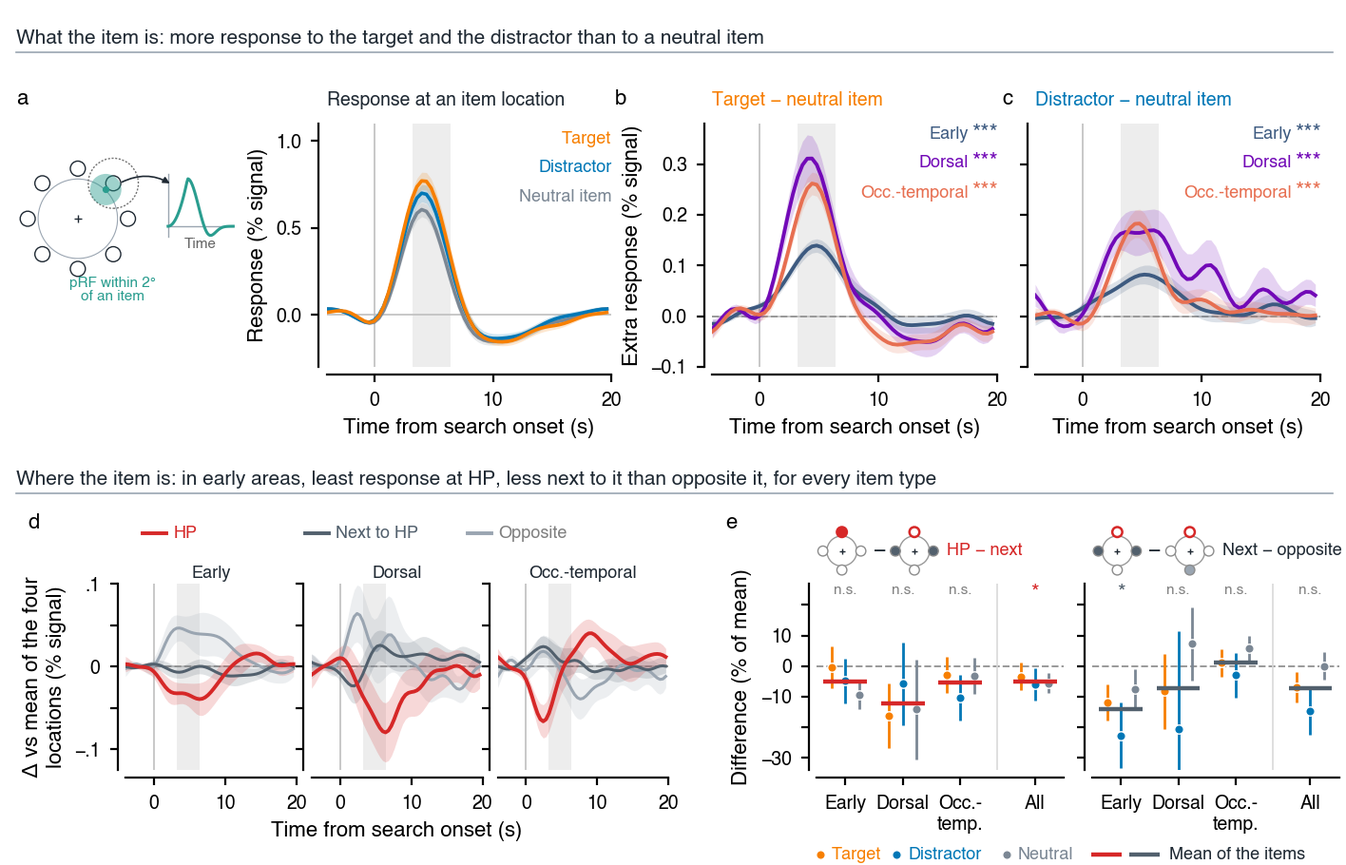
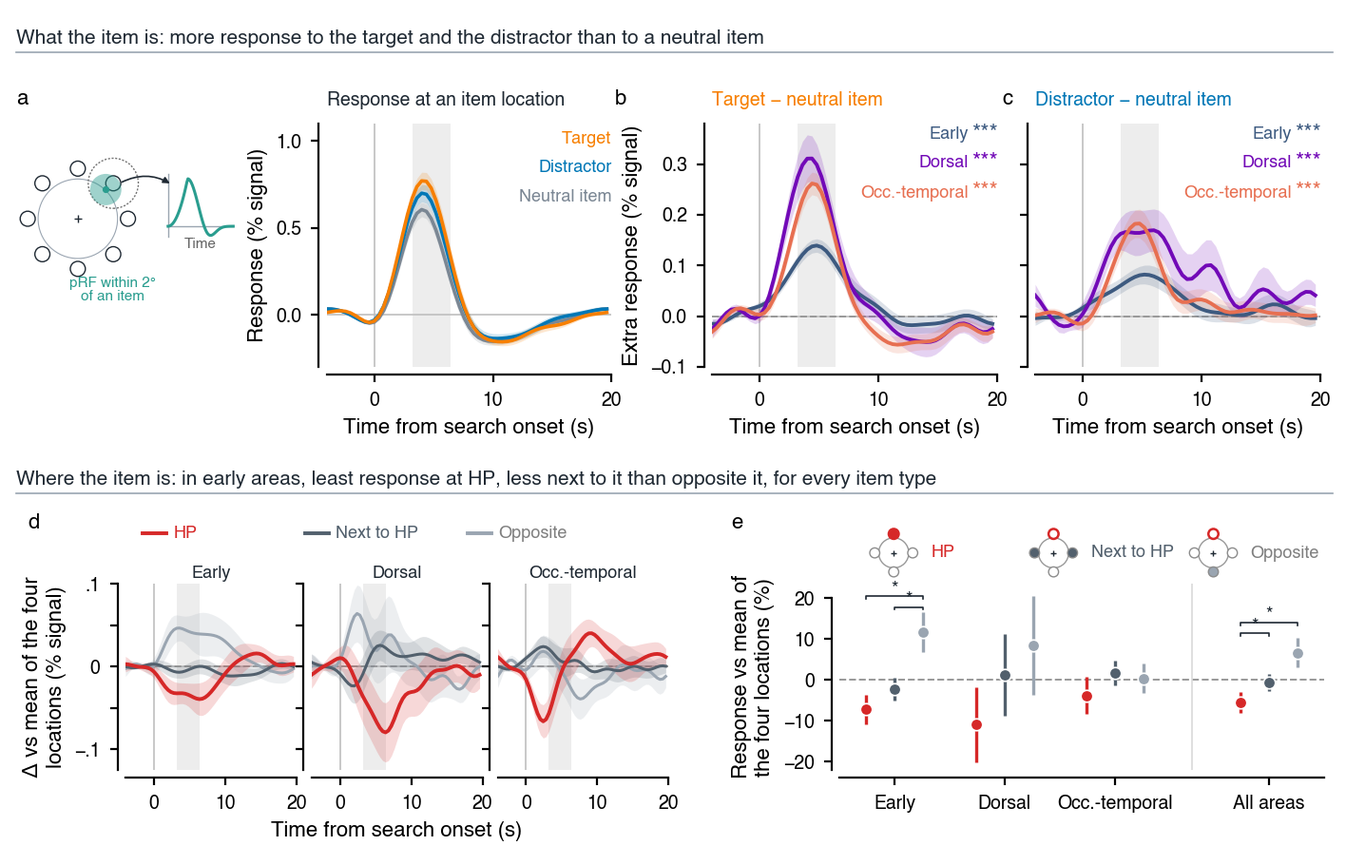
Fig. 3e as one panel in the style of Fig. 6d: HP, next to HP and opposite relative to the mean of the four locations per pathway, item types pooled, within-subject SEM, brackets where p < .05; per-item contrasts moved to the legend

diff --git a/retsupp/visualize/paper/fig3_item_locations.py b/retsupp/visualize/paper/fig3_item_locations.py
@@ -44,7 +44,7 @@ REL_DCT_FOLDER = 'notes/data/event_deconv_relative_dct_2026-11'
 ROW2_TITLE = 'Where the item is: in early areas, least response at HP, less next to it than opposite it, for every item type'
 
 LEGEND = """
-**Figure 3. At the item locations, without a model: more response to the target and the distractor, and, in early areas, least response at the high-probability (HP) location, less next to it than opposite it, for every item.** All panels: deconvolved response (nideconv, Fourier basis) around search onset of voxels whose pRF centre lies within 2° of an item location (inset in a: the display with one such pRF on an item, and the response it gives), ROIs pooled weighted by voxel count, each subject's pre-onset mean (−4 to 0 s) subtracted; mean over subjects ± SEM (n = 30). Pathways: early, V1–V3; dorsal, V3AB and IPS; occipitotemporal, hV4, VO, LO and TO. Grey band: the window tested, {w0:.1f}–{w1:.1f} s. a, Response at a pRF's item location when the target, the distractor or a neutral item is there, all at low-probability (LP) locations, all nine ROIs pooled. b, Target minus neutral item per pathway (both averaged over HP and LP locations). c, Distractor minus neutral item per pathway (both at LP locations). Stars in b, c: the mean over the window against 0, Wilcoxon signed-rank test, Benjamini-Hochberg over the three pathways per panel; {diff_tests}. d, e, Where the item lies relative to the run's HP location (HP rotates between runs, so each location is labelled per run): HP (red), next to HP (the two neighbouring LP locations, left and right seen from fixation facing HP, pooled; dark grey) or opposite HP (light grey), colours and order as Fig. 6d, g; deconvolved with the item type × location type as twelve event types. d, Each location type minus the mean of the four locations, item types pooled, per pathway. e, Per item type, HP − next to HP (left) and next to HP − opposite (right) over the window, in % of each subject's mean response over the four locations and three item types in that pathway; points and bars, mean ± SEM over subjects (dorsal pathway in b–e: n = {n_dor}, two subjects lack dorsal voxels at some item location). Rules: the mean over item types; stars, the planned contrast on it, Wilcoxon signed-rank test, uncorrected (* p < .05, ** p < .01, *** p < .001). Per pathway, repeated-measures ANOVA location type (HP, next, opposite) × item type (target, distractor, neutral), with the planned contrasts (mean ± SEM over subjects): {rel}. HP against all three LP locations (the earlier HP vs LP deconvolution, two event types per item; ANOVA location (HP, LP) × item type): main effect of location {hplp}; location × item {inter}. DCT basis (robustness), b, c and HP vs LP: {dct} Location types, DCT basis: {rel_dct}.
+**Figure 3. At the item locations, without a model: more response to the target and the distractor, and, in early areas, least response at the high-probability (HP) location, less next to it than opposite it, for every item.** All panels: deconvolved response (nideconv, Fourier basis) around search onset of voxels whose pRF centre lies within 2° of an item location (inset in a: the display with one such pRF on an item, and the response it gives), ROIs pooled weighted by voxel count, each subject's pre-onset mean (−4 to 0 s) subtracted; mean over subjects ± SEM (n = 30). Pathways: early, V1–V3; dorsal, V3AB and IPS; occipitotemporal, hV4, VO, LO and TO. Grey band: the window tested, {w0:.1f}–{w1:.1f} s. a, Response at a pRF's item location when the target, the distractor or a neutral item is there, all at low-probability (LP) locations, all nine ROIs pooled. b, Target minus neutral item per pathway (both averaged over HP and LP locations). c, Distractor minus neutral item per pathway (both at LP locations). Stars in b, c: the mean over the window against 0, Wilcoxon signed-rank test, Benjamini-Hochberg over the three pathways per panel; {diff_tests}. d, e, Where the item lies relative to the run's HP location (HP rotates between runs, so each location is labelled per run): HP (red), next to HP (the two neighbouring LP locations, left and right seen from fixation facing HP, pooled; dark grey) or opposite HP (light grey), colours and order as Fig. 6d, g; deconvolved with the item type × location type as twelve event types. d, Each location type minus the mean of the four locations, item types pooled, per pathway. e, Each location type relative to the mean of the four locations over the window, item types pooled, in % of each subject's mean response over the four locations and three item types in that pathway; mean ± within-subject SEM (dorsal pathway in b–e: n = {n_dor}, two subjects lack dorsal voxels at some item location). Brackets: planned contrasts (HP vs next to HP, next to HP vs opposite, HP vs opposite) on the mean over item types, Wilcoxon signed-rank test, uncorrected, drawn where p < .05 (* p < .05). The item types do not differ in their location effect (location type × item type below), so they are pooled. Per item type (target, distractor, neutral), HP − next and next − opposite: {items}. Per pathway, repeated-measures ANOVA location type (HP, next, opposite) × item type (target, distractor, neutral), with the planned contrasts (mean ± SEM over subjects): {rel}. HP against all three LP locations (the earlier HP vs LP deconvolution, two event types per item; ANOVA location (HP, LP) × item type): main effect of location {hplp}; location × item {inter}. DCT basis (robustness), b, c and HP vs LP: {dct} Location types, DCT basis: {rel_dct}.
 """
 
 
@@ -153,6 +153,20 @@ def rel_report(folder, res):
     cols = ['n', 'loc_F', 'loc_p', 'int_F', 'int_p', 'lp_F', 'lp_p', 'hp_next', 'hp_next_p', 'next_opp', 'next_opp_p',
             'hp_opp', 'hp_opp_p', 'left_right', 'left_right_p']
     print(res[cols].round(3).to_string())
+
+
+def item_text(cells):
+    """Per group and item type: HP − next and next − opposite (% of the mean), Wilcoxon p, for the legend."""
+    out = []
+    for g in list(PATHWAY) + ['All areas']:
+        w = cells[cells.grp == g].pivot_table(index=['subject', 'item'], columns='loc3', values='r').unstack('item')
+        parts = []
+        for it, lab, _ in ITEMS:
+            a, b = w['hp'][it] - w['next'][it], w['next'][it] - w['opposite'][it]
+            parts.append(f"{lab.lower().replace(' item', '')} {a.mean():+.1f}%, {fmt_p(stats.wilcoxon(a).pvalue)} and "
+                         f"{b.mean():+.1f}%, {fmt_p(stats.wilcoxon(b).pvalue)}")
+        out.append(f"{g.lower()}: " + ', '.join(parts))
+    return '; '.join(out)
 
 
 def rel_text(res, groups=None):
@@ -309,53 +323,62 @@ def panel_loc_tc(ax, t, name, ylim=(-.125, .1)):
     ax.set_title(SHORT[name], fontsize=6.5, color=FG, pad=2)
 
 
-def panel_contrast(ax, cells, res, which, ylim=(-34, 27), ylabel=True):
-    """HP − next (``which='hp_next'``) or next − opposite per item type and group, % of the mean response; the rule is
-    the mean over item types, stars the planned contrast on it."""
-    a, b = which.split('_')
-    names = {'hp': 'hp', 'next': 'next', 'opp': 'opposite'}
-    rule = LOC_COLORS[names[a]]
+def panel_loc_types(ax, cells, res):
+    """e: per pathway, each location type relative to the mean of the four locations (% of the mean response), item
+    types pooled; mean ± within-subject SEM; brackets where a planned contrast has p < .05 (Fourier)."""
+    import matplotlib.transforms as mtrans
     order = list(PATHWAY) + ['All areas']
-    off = {'target': -.24, 'distractor': 0., 'neutral': .24}
-    lo, hi = ylim
+    off = {'hp': -.26, 'next': 0., 'opposite': .26}
+    pairs = [('hp_next', 'hp', 'next'), ('next_opp', 'next', 'opposite'), ('hp_opp', 'hp', 'opposite')]
+    tops, lows = [], []
     for i, g in enumerate(order):
-        x0 = i + (.3 if g == 'All areas' else 0)
-        w = cells[cells.grp == g].pivot_table(index=['subject', 'item'], columns='loc3', values='r')
-        v = (w[names[a]] - w[names[b]]).unstack('item')
-        for it, _, col in ITEMS:
-            ax.errorbar(x0 + off[it], v[it].mean(), yerr=v[it].sem(), fmt='o', ms=3.4, color=col, mec='w', mew=.5, lw=1,
-                        capsize=0, zorder=3)
-        m = v.mean(1).mean()
-        ax.plot([x0 - .38, x0 + .38], [m, m], color=rule, lw=1.6, solid_capstyle='butt', zorder=4)
-        pv = res.loc[g, f'{which}_p']
-        ax.text(x0, hi, stars(pv) or 'n.s.', ha='center', va='top', fontsize=8 if stars(pv) else 5.5,
-                color=rule if pv < .05 else '.5')
+        x0 = i + (.4 if g == 'All areas' else 0)
+        x = cells[cells.grp == g].pivot_table(index='subject', columns='loc', values='r')   # mean over item types
+        m4 = x[['hp', 'nextleft', 'nextright', 'opposite']].mean(1)
+        v = pd.DataFrame({'hp': x.hp - m4, 'next': (x.nextleft + x.nextright) / 2 - m4, 'opposite': x.opposite - m4})
+        k = v.shape[1]
+        norm = v.sub(v.mean(1), axis=0)
+        se = norm.std(ddof=1) / np.sqrt(len(v)) * np.sqrt(k / (k - 1))
+        for c, _ in LOC_TYPES:
+            ax.errorbar(x0 + off[c], v[c].mean(), yerr=se[c], fmt='o', ms=4.5, color=LOC_COLORS[c], mec='w', mew=.6,
+                        lw=1.2, capsize=0, zorder=3)
+        top = (v.mean() + se).max()
+        lows.append((v.mean() - se).min())
+        level = 0
+        for key, a_, b_ in pairs:
+            if res.loc[g, f'{key}_p'] < .05:
+                y = top + 1.2 + level * 2.6
+                xa, xb = x0 + off[a_], x0 + off[b_]
+                ax.plot([xa, xa, xb, xb], [y - .6, y, y, y - .6], color=FG, lw=.6)
+                ax.text((xa + xb) / 2, y - .35, stars(res.loc[g, f'{key}_p']), ha='center', va='bottom', fontsize=7,
+                        color=FG)
+                level += 1
+        tops.append(top + 1.2 + level * 2.6)
     ax.axhline(0, color='.6', lw=.7, ls='--', zorder=0)
-    ax.axvline(len(order) - 1.5 + .15, color='.85', lw=.6, zorder=0)
-    ax.set_xticks([i + (.3 if g == 'All areas' else 0) for i, g in enumerate(order)])
-    ax.set_xticklabels(['Early', 'Dorsal', 'Occ.-\ntemp.', 'All'], fontsize=6)
-    ax.set_xlim(-.5, len(order) - .2)
+    ax.axvline(len(order) - 1.5 + .2, color='.85', lw=.6, zorder=0)
+    ax.set_xticks([i + (.4 if g == 'All areas' else 0) for i, g in enumerate(order)])
+    ax.set_xticklabels([SHORT[g] for g in order], fontsize=6.5)
+    ax.set_xlim(-.5, len(order) - .1)
+    lo, hi = np.floor(min(lows)) - 1, max(tops) + .5
     ax.set_ylim(lo, hi)
-    ax.set_yticks([-30, -20, -10, 0, 10, 20])
-    ax.set_yticklabels(['−30', '', '−10', '0', '10', ''])
-    if ylabel:
-        ax.set_ylabel('Difference (% of mean)')
-    else:
-        ax.set_yticklabels([])
+    ticks = [t for t in range(-30, 31, 10) if lo <= t <= hi]
+    ax.set_yticks(ticks)
+    ax.set_yticklabels([f'{t}'.replace('-', '−') for t in ticks])
+    ax.spines['left'].set_bounds(lo, max(ticks))
+    ax.set_ylabel('Response vs mean of\nthe four locations (%)')
     offset_spines(ax)
-    # Title: icon − icon.
+    # Key above the panel: the display icons for the three location types (HP ringed red at the top, the type filled).
     fig = ax.figure
     fig.canvas.draw()
     bb = ax.get_window_extent()
     h = .27
     w_ = h * bb.height / bb.width
-    y0 = 1.04
-    loc_icon(ax, (.0, y0, w_, h), {names[a]})
-    ax.text(w_ + .025, y0 + h / 2, '−', transform=ax.transAxes, fontsize=8, color=FG, va='center', ha='left')
-    loc_icon(ax, (w_ + .09, y0, w_, h), {names[b]})
-    lab = {'hp_next': 'HP − next', 'next_opp': 'Next − opposite'}[which]
-    ax.text(2 * w_ + .12, y0 + h / 2, lab, transform=ax.transAxes, fontsize=6.5, color=rule if a == 'hp' else FG,
-            va='center', ha='left')
+    for j, (c, lab) in enumerate(LOC_TYPES):
+        x = .06 + j * .33
+        loc_icon(ax, (x, 1.03, w_, h), {c})
+        ax.text(x + w_ + .025, 1.03 + h / 2, lab, transform=ax.transAxes, fontsize=6.5,
+                color=LOC_COLORS[c] if c != 'opposite' else '.5', va='center', ha='left')
+    return max(tops)
 
 
 def header(fig, y, text, x0=.012, x1=.99):
@@ -412,23 +435,9 @@ def main(folder, name='fig3_item_locations', stats_only=False, dct_folder='notes
             ax.set_yticklabels([])
         if k == 1:
             ax.set_xlabel('Time from search onset (s)')
-    for k, which in enumerate(('hp_next', 'next_opp')):
-        ax = at(4.3 + k * 1.45, .5, 1.3, .98)
-        panel_contrast(ax, cells, rres, which, ylabel=k == 0)
-        if k == 0:
-            letter(ax, 'e', x=-.32, y=1.27)
-    # Key for e, as glyphs, under its x-axis labels.
-    y = .055 / H
-    x = 4.32
-    for it, lab, col in ITEMS:
-        lab = lab.replace(' item', '')
-        fig.add_artist(plt.Line2D([x / W], [y], marker='o', ms=3.4, color=col, mec='w', mew=.5, transform=fig.transFigure))
-        fig.text((x + .06) / W, y, lab, fontsize=6.5, color=col, va='center', ha='left')
-        x += .13 + .045 * len(lab)
-    for j, c in enumerate(('hp', 'next')):
-        fig.add_artist(plt.Line2D([(x + j * .2) / W, (x + j * .2 + .16) / W], [y, y], color=LOC_COLORS[c], lw=1.6,
-                                  solid_capstyle='butt', transform=fig.transFigure))
-    fig.text((x + .41) / W, y, 'Mean of the items', fontsize=6.5, color=FG, va='center', ha='left')
+    ax = at(4.42, .5, 2.55, .98)
+    print('e: highest bracket', panel_loc_types(ax, cells, rres))
+    letter(ax, 'e', x=-.2, y=1.27)
 
     fmt_d = lambda d, lab: f"{lab}: " + ', '.join(f"{g.lower()} {d[g]['mean']:+.2f}% signal, {fmt_p(d[g]['p'])}"
                                                    for g in PATHWAY)
@@ -436,7 +445,7 @@ def main(folder, name='fig3_item_locations', stats_only=False, dct_folder='notes
                    for g, r in res.iterrows())
     inter = '; '.join(f"{g.lower()} F(2, {2 * (int(r.n) - 1)}) = {r.int_F:.2f}, {fmt_p(r.int_p)}" for g, r in res.iterrows())
     legend = LEGEND.format(w0=PEAK[0], w1=PEAK[1], diff_tests=fmt_d(dt, 'b') + '; ' + fmt_d(dd, 'c'),
-                           n_dor=int(rres.loc['Dorsal', 'n']), rel=rel_text(rres), rel_dct=rel_text(rres2),
+                           n_dor=int(rres.loc['Dorsal', 'n']), rel=rel_text(rres), rel_dct=rel_text(rres2), items=item_text(cells),
                            hplp=an, inter=inter, dct=short_stats(dt2, dd2, hl2, res2))
     legend = legend.replace('-0.', '−0.').replace('(-', '(−').replace(' -', ' −')
     save(fig, name, legend)

diff --git a/notes/figures/paper_2026-11/fig3_item_locations.md b/notes/figures/paper_2026-11/fig3_item_locations.md
@@ -1,1 +1,1 @@
-**Figure 3. At the item locations, without a model: more response to the target and the distractor, and, in early areas, least response at the high-probability (HP) location, less next to it than opposite it, for every item.** All panels: deconvolved response (nideconv, Fourier basis) around search onset of voxels whose pRF centre lies within 2° of an item location (inset in a: the display with one such pRF on an item, and the response it gives), ROIs pooled weighted by voxel count, each subject's pre-onset mean (−4 to 0 s) subtracted; mean over subjects ± SEM (n = 30). Pathways: early, V1–V3; dorsal, V3AB and IPS; occipitotemporal, hV4, VO, LO and TO. Grey band: the window tested, 3.2–6.4 s. a, Response at a pRF's item location when the target, the distractor or a neutral item is there, all at low-probability (LP) locations, all nine ROIs pooled. b, Target minus neutral item per pathway (both averaged over HP and LP locations). c, Distractor minus neutral item per pathway (both at LP locations). Stars in b, c: the mean over the window against 0, Wilcoxon signed-rank test, Benjamini-Hochberg over the three pathways per panel; b: early +0.12% signal, p < .001, dorsal +0.26% signal, p < .001, occipitotemporal +0.22% signal, p < .001; c: early +0.07% signal, p < .001, dorsal +0.17% signal, p < .001, occipitotemporal +0.16% signal, p < .001. d, e, Where the item lies relative to the run's HP location (HP rotates between runs, so each location is labelled per run): HP (red), next to HP (the two neighbouring LP locations, left and right seen from fixation facing HP, pooled; dark grey) or opposite HP (light grey), colours and order as Fig. 6d, g; deconvolved with the item type × location type as twelve event types. d, Each location type minus the mean of the four locations, item types pooled, per pathway. e, Per item type, HP − next to HP (left) and next to HP − opposite (right) over the window, in % of each subject's mean response over the four locations and three item types in that pathway; points and bars, mean ± SEM over subjects (dorsal pathway in b–e: n = 28, two subjects lack dorsal voxels at some item location). Rules: the mean over item types; stars, the planned contrast on it, Wilcoxon signed-rank test, uncorrected (* p < .05, ** p < .01, *** p < .001). Per pathway, repeated-measures ANOVA location type (HP, next, opposite) × item type (target, distractor, neutral), with the planned contrasts (mean ± SEM over subjects): early: location type F(2, 58) = 6.61, p = .003, location type × item F(4, 116) = 1.01, p = .406; HP − next −5.0 ± 3.4%, p = .158; next − opposite −14.0 ± 5.9%, p = .029; HP − opposite −19.0%, p = .011; next left − next right +0.4%, p = .777; dorsal: location type F(2, 54) = 0.87, p = .424, location type × item F(4, 108) = 0.80, p = .526; HP − next −12.1 ± 12.1%, p = .138; next − opposite −7.3 ± 16.5%, p = .955; HP − opposite −19.4%, p = .095; next left − next right +9.6%, p = .305; occipitotemporal: location type F(2, 58) = 0.58, p = .565, location type × item F(4, 116) = 1.64, p = .170; HP − next −5.5 ± 5.6%, p = .393; next − opposite +1.3 ± 4.1%, p = .935; HP − opposite −4.2%, p = .685; next left − next right −3.5%, p = .746; all areas: location type F(2, 58) = 4.80, p = .012, location type × item F(4, 116) = 1.83, p = .128; HP − next −5.0 ± 2.5%, p = .045; next − opposite −7.2 ± 4.3%, p = .119; HP − opposite −12.2%, p = .029; next left − next right +0.6%, p = .598. HP against all three LP locations (the earlier HP vs LP deconvolution, two event types per item; ANOVA location (HP, LP) × item type): main effect of location early −8.1%, F(1, 29) = 4.52, p = .042; dorsal −6.3%, F(1, 27) = 0.41, p = .527; occipitotemporal −3.1%, F(1, 29) = 0.41, p = .526; all areas −6.3%, F(1, 29) = 5.08, p = .032; location × item early F(2, 58) = 0.57, p = .571; dorsal F(2, 54) = 1.12, p = .335; occipitotemporal F(2, 58) = 1.55, p = .220; all areas F(2, 58) = 0.39, p = .679. DCT basis (robustness), b, c and HP vs LP: target − neutral early p < .001, dorsal p < .001, occipitotemporal p < .001; distractor − neutral early p < .001, dorsal p < .001, occipitotemporal p < .001; HP − LP early −9%, p = .067, dorsal −9%, p = .025, occipitotemporal −5%, p = .105; main effect of location early p = .256, dorsal p = .465, occipitotemporal p = .211, all areas p = .158; location × item early p = .896, dorsal p = .825, occipitotemporal p = .523, all areas p = .597. Location types, DCT basis: early: location type F(2, 58) = 4.17, p = .020, location type × item F(4, 116) = 0.20, p = .940; HP − next −4.3 ± 4.1%, p = .221; next − opposite −13.4 ± 6.2%, p = .015; HP − opposite −17.6%, p = .033; next left − next right +2.5%, p = .952; dorsal: location type F(2, 54) = 1.09, p = .344, location type × item F(4, 108) = 0.50, p = .739; HP − next −17.7 ± 14.3%, p = .010; next − opposite +3.2 ± 13.2%, p = .762; HP − opposite −14.6%, p = .115; next left − next right +1.8%, p = .867; occipitotemporal: location type F(2, 58) = 1.43, p = .247, location type × item F(4, 116) = 0.84, p = .505; HP − next −10.0 ± 6.2%, p = .080; next − opposite +4.2 ± 5.6%, p = .919; HP − opposite −5.9%, p = .360; next left − next right −3.8%, p = .777; all areas: location type F(2, 58) = 2.83, p = .067, location type × item F(4, 116) = 0.57, p = .687; HP − next −5.2 ± 3.0%, p = .055; next − opposite −6.2 ± 4.8%, p = .070; HP − opposite −11.4%, p = .088; next left − next right +2.7%, p = .570.
+**Figure 3. At the item locations, without a model: more response to the target and the distractor, and, in early areas, least response at the high-probability (HP) location, less next to it than opposite it, for every item.** All panels: deconvolved response (nideconv, Fourier basis) around search onset of voxels whose pRF centre lies within 2° of an item location (inset in a: the display with one such pRF on an item, and the response it gives), ROIs pooled weighted by voxel count, each subject's pre-onset mean (−4 to 0 s) subtracted; mean over subjects ± SEM (n = 30). Pathways: early, V1–V3; dorsal, V3AB and IPS; occipitotemporal, hV4, VO, LO and TO. Grey band: the window tested, 3.2–6.4 s. a, Response at a pRF's item location when the target, the distractor or a neutral item is there, all at low-probability (LP) locations, all nine ROIs pooled. b, Target minus neutral item per pathway (both averaged over HP and LP locations). c, Distractor minus neutral item per pathway (both at LP locations). Stars in b, c: the mean over the window against 0, Wilcoxon signed-rank test, Benjamini-Hochberg over the three pathways per panel; b: early +0.12% signal, p < .001, dorsal +0.26% signal, p < .001, occipitotemporal +0.22% signal, p < .001; c: early +0.07% signal, p < .001, dorsal +0.17% signal, p < .001, occipitotemporal +0.16% signal, p < .001. d, e, Where the item lies relative to the run's HP location (HP rotates between runs, so each location is labelled per run): HP (red), next to HP (the two neighbouring LP locations, left and right seen from fixation facing HP, pooled; dark grey) or opposite HP (light grey), colours and order as Fig. 6d, g; deconvolved with the item type × location type as twelve event types. d, Each location type minus the mean of the four locations, item types pooled, per pathway. e, Each location type relative to the mean of the four locations over the window, item types pooled, in % of each subject's mean response over the four locations and three item types in that pathway; mean ± within-subject SEM (dorsal pathway in b–e: n = 28, two subjects lack dorsal voxels at some item location). Brackets: planned contrasts (HP vs next to HP, next to HP vs opposite, HP vs opposite) on the mean over item types, Wilcoxon signed-rank test, uncorrected, drawn where p < .05 (* p < .05). The item types do not differ in their location effect (location type × item type below), so they are pooled. Per item type (target, distractor, neutral), HP − next and next − opposite: early: target −0.5%, p = .824 and −11.8%, p = .109, distractor −4.9%, p = .371 and −22.7%, p = .109, neutral −9.6%, p = .055 and −7.7%, p = .428; dorsal: target −16.3%, p = .023 and −8.3%, p = .745, distractor −5.8%, p = .210 and −20.7%, p = .745, neutral −14.2%, p = .728 and +7.3%, p = .867; occipitotemporal: target −3.0%, p = .746 and +1.0%, p = .626, distractor −10.4%, p = .339 and −3.0%, p = .477, neutral −3.2%, p = .503 and +5.8%, p = .309; all areas: target −3.4%, p = .465 and −6.9%, p = .171, distractor −6.1%, p = .152 and −14.8%, p = .100, neutral −5.5%, p = .096 and −0.0%, p = .919. Per pathway, repeated-measures ANOVA location type (HP, next, opposite) × item type (target, distractor, neutral), with the planned contrasts (mean ± SEM over subjects): early: location type F(2, 58) = 6.61, p = .003, location type × item F(4, 116) = 1.01, p = .406; HP − next −5.0 ± 3.4%, p = .158; next − opposite −14.0 ± 5.9%, p = .029; HP − opposite −19.0%, p = .011; next left − next right +0.4%, p = .777; dorsal: location type F(2, 54) = 0.87, p = .424, location type × item F(4, 108) = 0.80, p = .526; HP − next −12.1 ± 12.1%, p = .138; next − opposite −7.3 ± 16.5%, p = .955; HP − opposite −19.4%, p = .095; next left − next right +9.6%, p = .305; occipitotemporal: location type F(2, 58) = 0.58, p = .565, location type × item F(4, 116) = 1.64, p = .170; HP − next −5.5 ± 5.6%, p = .393; next − opposite +1.3 ± 4.1%, p = .935; HP − opposite −4.2%, p = .685; next left − next right −3.5%, p = .746; all areas: location type F(2, 58) = 4.80, p = .012, location type × item F(4, 116) = 1.83, p = .128; HP − next −5.0 ± 2.5%, p = .045; next − opposite −7.2 ± 4.3%, p = .119; HP − opposite −12.2%, p = .029; next left − next right +0.6%, p = .598. HP against all three LP locations (the earlier HP vs LP deconvolution, two event types per item; ANOVA location (HP, LP) × item type): main effect of location early −8.1%, F(1, 29) = 4.52, p = .042; dorsal −6.3%, F(1, 27) = 0.41, p = .527; occipitotemporal −3.1%, F(1, 29) = 0.41, p = .526; all areas −6.3%, F(1, 29) = 5.08, p = .032; location × item early F(2, 58) = 0.57, p = .571; dorsal F(2, 54) = 1.12, p = .335; occipitotemporal F(2, 58) = 1.55, p = .220; all areas F(2, 58) = 0.39, p = .679. DCT basis (robustness), b, c and HP vs LP: target − neutral early p < .001, dorsal p < .001, occipitotemporal p < .001; distractor − neutral early p < .001, dorsal p < .001, occipitotemporal p < .001; HP − LP early −9%, p = .067, dorsal −9%, p = .025, occipitotemporal −5%, p = .105; main effect of location early p = .256, dorsal p = .465, occipitotemporal p = .211, all areas p = .158; location × item early p = .896, dorsal p = .825, occipitotemporal p = .523, all areas p = .597. Location types, DCT basis: early: location type F(2, 58) = 4.17, p = .020, location type × item F(4, 116) = 0.20, p = .940; HP − next −4.3 ± 4.1%, p = .221; next − opposite −13.4 ± 6.2%, p = .015; HP − opposite −17.6%, p = .033; next left − next right +2.5%, p = .952; dorsal: location type F(2, 54) = 1.09, p = .344, location type × item F(4, 108) = 0.50, p = .739; HP − next −17.7 ± 14.3%, p = .010; next − opposite +3.2 ± 13.2%, p = .762; HP − opposite −14.6%, p = .115; next left − next right +1.8%, p = .867; occipitotemporal: location type F(2, 58) = 1.43, p = .247, location type × item F(4, 116) = 0.84, p = .505; HP − next −10.0 ± 6.2%, p = .080; next − opposite +4.2 ± 5.6%, p = .919; HP − opposite −5.9%, p = .360; next left − next right −3.8%, p = .777; all areas: location type F(2, 58) = 2.83, p = .067, location type × item F(4, 116) = 0.57, p = .687; HP − next −5.2 ± 3.0%, p = .055; next − opposite −6.2 ± 4.8%, p = .070; HP − opposite −11.4%, p = .088; next left − next right +2.7%, p = .570.

diff --git a/notes/writing_package_2026-11/figures/fig3_item_locations.md b/notes/writing_package_2026-11/figures/fig3_item_locations.md
@@ -1,1 +1,1 @@
-**Figure 3. At the item locations, without a model: more response to the target and the distractor, and, in early areas, least response at the high-probability (HP) location, less next to it than opposite it, for every item.** All panels: deconvolved response (nideconv, Fourier basis) around search onset of voxels whose pRF centre lies within 2° of an item location (inset in a: the display with one such pRF on an item, and the response it gives), ROIs pooled weighted by voxel count, each subject's pre-onset mean (−4 to 0 s) subtracted; mean over subjects ± SEM (n = 30). Pathways: early, V1–V3; dorsal, V3AB and IPS; occipitotemporal, hV4, VO, LO and TO. Grey band: the window tested, 3.2–6.4 s. a, Response at a pRF's item location when the target, the distractor or a neutral item is there, all at low-probability (LP) locations, all nine ROIs pooled. b, Target minus neutral item per pathway (both averaged over HP and LP locations). c, Distractor minus neutral item per pathway (both at LP locations). Stars in b, c: the mean over the window against 0, Wilcoxon signed-rank test, Benjamini-Hochberg over the three pathways per panel; b: early +0.12% signal, p < .001, dorsal +0.26% signal, p < .001, occipitotemporal +0.22% signal, p < .001; c: early +0.07% signal, p < .001, dorsal +0.17% signal, p < .001, occipitotemporal +0.16% signal, p < .001. d, e, Where the item lies relative to the run's HP location (HP rotates between runs, so each location is labelled per run): HP (red), next to HP (the two neighbouring LP locations, left and right seen from fixation facing HP, pooled; dark grey) or opposite HP (light grey), colours and order as Fig. 6d, g; deconvolved with the item type × location type as twelve event types. d, Each location type minus the mean of the four locations, item types pooled, per pathway. e, Per item type, HP − next to HP (left) and next to HP − opposite (right) over the window, in % of each subject's mean response over the four locations and three item types in that pathway; points and bars, mean ± SEM over subjects (dorsal pathway in b–e: n = 28, two subjects lack dorsal voxels at some item location). Rules: the mean over item types; stars, the planned contrast on it, Wilcoxon signed-rank test, uncorrected (* p < .05, ** p < .01, *** p < .001). Per pathway, repeated-measures ANOVA location type (HP, next, opposite) × item type (target, distractor, neutral), with the planned contrasts (mean ± SEM over subjects): early: location type F(2, 58) = 6.61, p = .003, location type × item F(4, 116) = 1.01, p = .406; HP − next −5.0 ± 3.4%, p = .158; next − opposite −14.0 ± 5.9%, p = .029; HP − opposite −19.0%, p = .011; next left − next right +0.4%, p = .777; dorsal: location type F(2, 54) = 0.87, p = .424, location type × item F(4, 108) = 0.80, p = .526; HP − next −12.1 ± 12.1%, p = .138; next − opposite −7.3 ± 16.5%, p = .955; HP − opposite −19.4%, p = .095; next left − next right +9.6%, p = .305; occipitotemporal: location type F(2, 58) = 0.58, p = .565, location type × item F(4, 116) = 1.64, p = .170; HP − next −5.5 ± 5.6%, p = .393; next − opposite +1.3 ± 4.1%, p = .935; HP − opposite −4.2%, p = .685; next left − next right −3.5%, p = .746; all areas: location type F(2, 58) = 4.80, p = .012, location type × item F(4, 116) = 1.83, p = .128; HP − next −5.0 ± 2.5%, p = .045; next − opposite −7.2 ± 4.3%, p = .119; HP − opposite −12.2%, p = .029; next left − next right +0.6%, p = .598. HP against all three LP locations (the earlier HP vs LP deconvolution, two event types per item; ANOVA location (HP, LP) × item type): main effect of location early −8.1%, F(1, 29) = 4.52, p = .042; dorsal −6.3%, F(1, 27) = 0.41, p = .527; occipitotemporal −3.1%, F(1, 29) = 0.41, p = .526; all areas −6.3%, F(1, 29) = 5.08, p = .032; location × item early F(2, 58) = 0.57, p = .571; dorsal F(2, 54) = 1.12, p = .335; occipitotemporal F(2, 58) = 1.55, p = .220; all areas F(2, 58) = 0.39, p = .679. DCT basis (robustness), b, c and HP vs LP: target − neutral early p < .001, dorsal p < .001, occipitotemporal p < .001; distractor − neutral early p < .001, dorsal p < .001, occipitotemporal p < .001; HP − LP early −9%, p = .067, dorsal −9%, p = .025, occipitotemporal −5%, p = .105; main effect of location early p = .256, dorsal p = .465, occipitotemporal p = .211, all areas p = .158; location × item early p = .896, dorsal p = .825, occipitotemporal p = .523, all areas p = .597. Location types, DCT basis: early: location type F(2, 58) = 4.17, p = .020, location type × item F(4, 116) = 0.20, p = .940; HP − next −4.3 ± 4.1%, p = .221; next − opposite −13.4 ± 6.2%, p = .015; HP − opposite −17.6%, p = .033; next left − next right +2.5%, p = .952; dorsal: location type F(2, 54) = 1.09, p = .344, location type × item F(4, 108) = 0.50, p = .739; HP − next −17.7 ± 14.3%, p = .010; next − opposite +3.2 ± 13.2%, p = .762; HP − opposite −14.6%, p = .115; next left − next right +1.8%, p = .867; occipitotemporal: location type F(2, 58) = 1.43, p = .247, location type × item F(4, 116) = 0.84, p = .505; HP − next −10.0 ± 6.2%, p = .080; next − opposite +4.2 ± 5.6%, p = .919; HP − opposite −5.9%, p = .360; next left − next right −3.8%, p = .777; all areas: location type F(2, 58) = 2.83, p = .067, location type × item F(4, 116) = 0.57, p = .687; HP − next −5.2 ± 3.0%, p = .055; next − opposite −6.2 ± 4.8%, p = .070; HP − opposite −11.4%, p = .088; next left − next right +2.7%, p = .570.
+**Figure 3. At the item locations, without a model: more response to the target and the distractor, and, in early areas, least response at the high-probability (HP) location, less next to it than opposite it, for every item.** All panels: deconvolved response (nideconv, Fourier basis) around search onset of voxels whose pRF centre lies within 2° of an item location (inset in a: the display with one such pRF on an item, and the response it gives), ROIs pooled weighted by voxel count, each subject's pre-onset mean (−4 to 0 s) subtracted; mean over subjects ± SEM (n = 30). Pathways: early, V1–V3; dorsal, V3AB and IPS; occipitotemporal, hV4, VO, LO and TO. Grey band: the window tested, 3.2–6.4 s. a, Response at a pRF's item location when the target, the distractor or a neutral item is there, all at low-probability (LP) locations, all nine ROIs pooled. b, Target minus neutral item per pathway (both averaged over HP and LP locations). c, Distractor minus neutral item per pathway (both at LP locations). Stars in b, c: the mean over the window against 0, Wilcoxon signed-rank test, Benjamini-Hochberg over the three pathways per panel; b: early +0.12% signal, p < .001, dorsal +0.26% signal, p < .001, occipitotemporal +0.22% signal, p < .001; c: early +0.07% signal, p < .001, dorsal +0.17% signal, p < .001, occipitotemporal +0.16% signal, p < .001. d, e, Where the item lies relative to the run's HP location (HP rotates between runs, so each location is labelled per run): HP (red), next to HP (the two neighbouring LP locations, left and right seen from fixation facing HP, pooled; dark grey) or opposite HP (light grey), colours and order as Fig. 6d, g; deconvolved with the item type × location type as twelve event types. d, Each location type minus the mean of the four locations, item types pooled, per pathway. e, Each location type relative to the mean of the four locations over the window, item types pooled, in % of each subject's mean response over the four locations and three item types in that pathway; mean ± within-subject SEM (dorsal pathway in b–e: n = 28, two subjects lack dorsal voxels at some item location). Brackets: planned contrasts (HP vs next to HP, next to HP vs opposite, HP vs opposite) on the mean over item types, Wilcoxon signed-rank test, uncorrected, drawn where p < .05 (* p < .05). The item types do not differ in their location effect (location type × item type below), so they are pooled. Per item type (target, distractor, neutral), HP − next and next − opposite: early: target −0.5%, p = .824 and −11.8%, p = .109, distractor −4.9%, p = .371 and −22.7%, p = .109, neutral −9.6%, p = .055 and −7.7%, p = .428; dorsal: target −16.3%, p = .023 and −8.3%, p = .745, distractor −5.8%, p = .210 and −20.7%, p = .745, neutral −14.2%, p = .728 and +7.3%, p = .867; occipitotemporal: target −3.0%, p = .746 and +1.0%, p = .626, distractor −10.4%, p = .339 and −3.0%, p = .477, neutral −3.2%, p = .503 and +5.8%, p = .309; all areas: target −3.4%, p = .465 and −6.9%, p = .171, distractor −6.1%, p = .152 and −14.8%, p = .100, neutral −5.5%, p = .096 and −0.0%, p = .919. Per pathway, repeated-measures ANOVA location type (HP, next, opposite) × item type (target, distractor, neutral), with the planned contrasts (mean ± SEM over subjects): early: location type F(2, 58) = 6.61, p = .003, location type × item F(4, 116) = 1.01, p = .406; HP − next −5.0 ± 3.4%, p = .158; next − opposite −14.0 ± 5.9%, p = .029; HP − opposite −19.0%, p = .011; next left − next right +0.4%, p = .777; dorsal: location type F(2, 54) = 0.87, p = .424, location type × item F(4, 108) = 0.80, p = .526; HP − next −12.1 ± 12.1%, p = .138; next − opposite −7.3 ± 16.5%, p = .955; HP − opposite −19.4%, p = .095; next left − next right +9.6%, p = .305; occipitotemporal: location type F(2, 58) = 0.58, p = .565, location type × item F(4, 116) = 1.64, p = .170; HP − next −5.5 ± 5.6%, p = .393; next − opposite +1.3 ± 4.1%, p = .935; HP − opposite −4.2%, p = .685; next left − next right −3.5%, p = .746; all areas: location type F(2, 58) = 4.80, p = .012, location type × item F(4, 116) = 1.83, p = .128; HP − next −5.0 ± 2.5%, p = .045; next − opposite −7.2 ± 4.3%, p = .119; HP − opposite −12.2%, p = .029; next left − next right +0.6%, p = .598. HP against all three LP locations (the earlier HP vs LP deconvolution, two event types per item; ANOVA location (HP, LP) × item type): main effect of location early −8.1%, F(1, 29) = 4.52, p = .042; dorsal −6.3%, F(1, 27) = 0.41, p = .527; occipitotemporal −3.1%, F(1, 29) = 0.41, p = .526; all areas −6.3%, F(1, 29) = 5.08, p = .032; location × item early F(2, 58) = 0.57, p = .571; dorsal F(2, 54) = 1.12, p = .335; occipitotemporal F(2, 58) = 1.55, p = .220; all areas F(2, 58) = 0.39, p = .679. DCT basis (robustness), b, c and HP vs LP: target − neutral early p < .001, dorsal p < .001, occipitotemporal p < .001; distractor − neutral early p < .001, dorsal p < .001, occipitotemporal p < .001; HP − LP early −9%, p = .067, dorsal −9%, p = .025, occipitotemporal −5%, p = .105; main effect of location early p = .256, dorsal p = .465, occipitotemporal p = .211, all areas p = .158; location × item early p = .896, dorsal p = .825, occipitotemporal p = .523, all areas p = .597. Location types, DCT basis: early: location type F(2, 58) = 4.17, p = .020, location type × item F(4, 116) = 0.20, p = .940; HP − next −4.3 ± 4.1%, p = .221; next − opposite −13.4 ± 6.2%, p = .015; HP − opposite −17.6%, p = .033; next left − next right +2.5%, p = .952; dorsal: location type F(2, 54) = 1.09, p = .344, location type × item F(4, 108) = 0.50, p = .739; HP − next −17.7 ± 14.3%, p = .010; next − opposite +3.2 ± 13.2%, p = .762; HP − opposite −14.6%, p = .115; next left − next right +1.8%, p = .867; occipitotemporal: location type F(2, 58) = 1.43, p = .247, location type × item F(4, 116) = 0.84, p = .505; HP − next −10.0 ± 6.2%, p = .080; next − opposite +4.2 ± 5.6%, p = .919; HP − opposite −5.9%, p = .360; next left − next right −3.8%, p = .777; all areas: location type F(2, 58) = 2.83, p = .067, location type × item F(4, 116) = 0.57, p = .687; HP − next −5.2 ± 3.0%, p = .055; next − opposite −6.2 ± 4.8%, p = .070; HP − opposite −11.4%, p = .088; next left − next right +2.7%, p = .570.

diff --git a/notes/figures/paper_2026-11/README.md b/notes/figures/paper_2026-11/README.md
@@ -11,7 +11,7 @@ responses Fig. 3 and the model Fig. 4.
 |---|---|---|---|
 | 1 Paradigm and behaviour | `fig1_paradigm_behaviour` (c, d response times by HP/LP; e, f repeat vs switch) | `fig1_paradigm_behaviour.py` | final |
 | 2 pRF fits | `fig2_prf_fits` | `fig2_prf_fits.py` | provisional (d: HRF choice) |
-| 3 Responses at the item locations (model-free): target and distractor vs neutral item; d, e by location type relative to HP (HP, next to HP, opposite) per item type, HP vs all LP in the legend | `fig3_item_locations` | `fig3_item_locations.py`; d, e from `deconvolve_location_responses.py --relative` (`notes/data/event_deconv_relative{,_dct}_2026-11/`; statistics for the DCT basis in its legend) | final apart from layout |
+| 3 Responses at the item locations (model-free): target and distractor vs neutral item; d, e by location type relative to HP (HP, next to HP, opposite; e item types pooled, per item type and HP vs all LP in the legend) | `fig3_item_locations` | `fig3_item_locations.py`; d, e from `deconvolve_location_responses.py --relative` (`notes/data/event_deconv_relative{,_dct}_2026-11/`; statistics for the DCT basis in its legend) | final apart from layout |
 | 4 Gain-field model | `fig4_model_hp_blocks` | `fig4_model.py` | final |
 | 5 Gain fields: top row a target and distractor gain, b the sustained field to scale; bottom row c sustained HP − LP gain, d distractor and target HP − LP gain (as Fig. 1c, d) | `fig5_gain_fields` | `fig5_gain_fields.py` | provisional |
 | Responses at a pRF's item location (model-free; place to be decided) | `fig_event_responses_2x3_deconv` | `fig_event_responses_2x3.py --deconv notes/data/event_deconv_2026-11` | final apart from layout |
